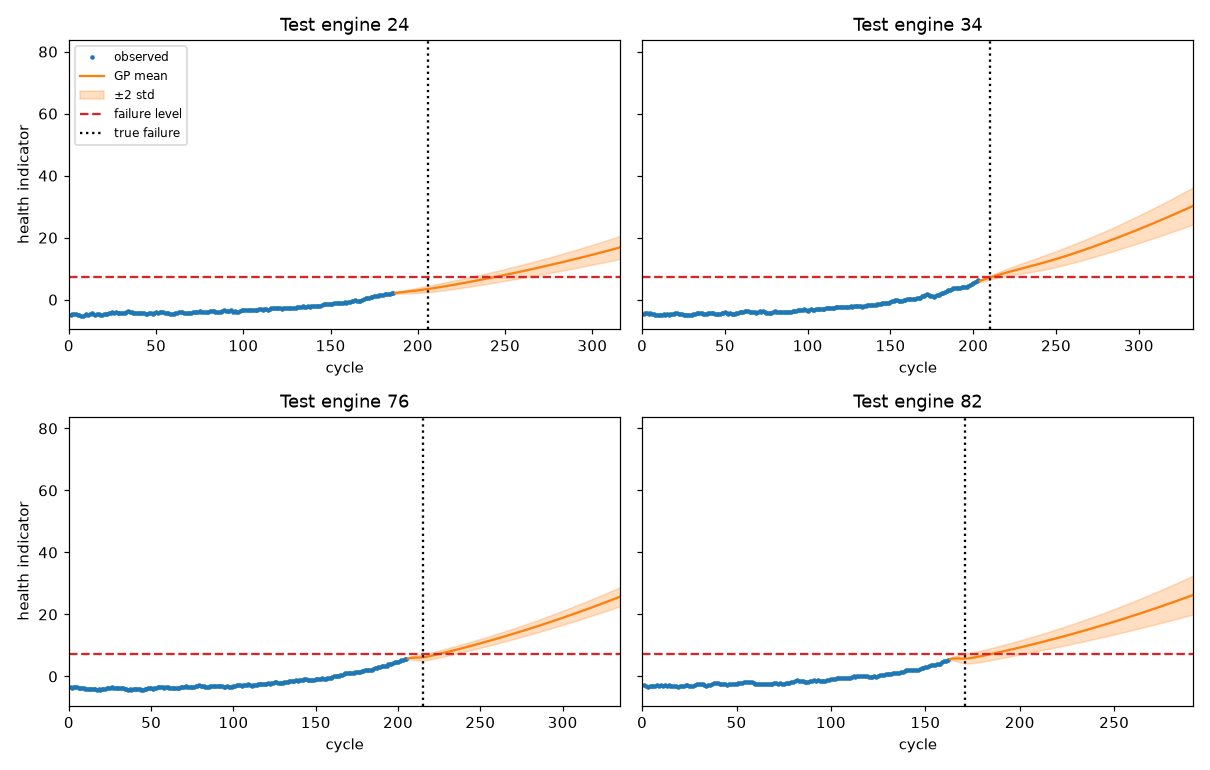
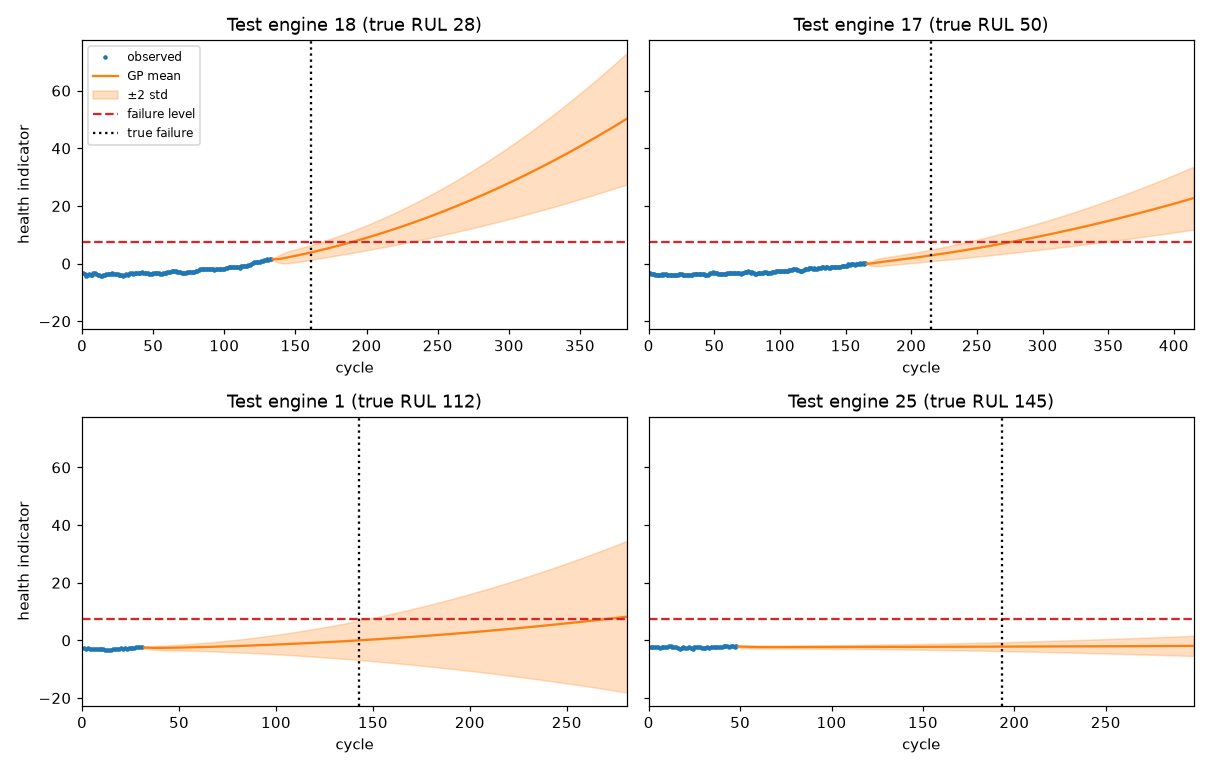
Fix stuck-fault check, pick plot engines by rule, correct M3 claims

diff --git a/scripts/run_uncertainty.py b/scripts/run_uncertainty.py
@@ -10,12 +10,21 @@ from sensor_edge.data import load_subset
 from sensor_edge.experiment import ExperimentConfig
 from sensor_edge.forecast import (
     N_SIGMA,
+    RUL_BUCKETS,
     forecast_test_engines,
     summarise_by_true_rul,
     summarise_forecasts,
 )
 
-PLOT_UNITS = [24, 34, 76, 82]  # fixed before any results were seen
+
+def pick_plot_units(table) -> list[int]:
+    """The lowest unit number in each true-RUL range, so the plot is not hand-picked."""
+    units = []
+    for _, low, high in RUL_BUCKETS:
+        in_bucket = table[(table["true_rul"] >= low) & (table["true_rul"] <= high)]
+        if len(in_bucket):
+            units.append(int(in_bucket["unit"].min()))
+    return units
 
 
 def plot_forecasts(table, indicator, forecasts, frames_test, path: Path) -> None:
@@ -25,7 +34,7 @@ def plot_forecasts(table, indicator, forecasts, frames_test, path: Path) -> None
     import matplotlib.pyplot as plt
 
     figure, axes = plt.subplots(2, 2, figsize=(11, 7), sharey=True)
-    for axis, unit in zip(axes.ravel(), PLOT_UNITS):
+    for axis, unit in zip(axes.ravel(), pick_plot_units(table)):
         cycles, health = indicator.trajectory(frames_test[frames_test["unit"] == unit])
         forecast = forecasts[unit]
         true_failure = cycles[-1] + table.set_index("unit").loc[unit, "true_rul"]
@@ -41,9 +50,10 @@ def plot_forecasts(table, indicator, forecasts, frames_test, path: Path) -> None
         )
         axis.axhline(indicator.failure_level_, color="tab:red", linestyle="--", label="failure level")
         axis.axvline(true_failure, color="black", linestyle=":", label="true failure")
-        axis.set_title(f"Test engine {unit}")
+        true_rul = table.set_index("unit").loc[unit, "true_rul"]
+        axis.set_title(f"Test engine {unit} (true RUL {true_rul})")
         axis.set_xlabel("cycle")
-        axis.set_xlim(0, cycles[-1] + 130)
+        axis.set_xlim(0, forecast.future_cycles[-1])
     axes[0, 0].set_ylabel("health indicator")
     axes[1, 0].set_ylabel("health indicator")
     axes[0, 0].legend(loc="upper left", fontsize=8)

diff --git a/src/sensor_edge/anomaly_experiment.py b/src/sensor_edge/anomaly_experiment.py
@@ -91,6 +91,16 @@ def _score_alarms(
     }
 
 
+def _changed_windows(original: np.ndarray, faulted: np.ndarray) -> np.ndarray:
+    """Mask of windows the fault actually changed.
+
+    A stuck sensor changes nothing if the sensor was already constant in the
+    window, for example a nearly constant sensor or a window at cycle 1 that is
+    all padding. Those are not faults, so they are left out of the check.
+    """
+    return (original != faulted).any(axis=(1, 2))
+
+
 def run_anomaly_detection(
     subset: Subset,
     config: ExperimentConfig,
@@ -100,7 +110,8 @@ def run_anomaly_detection(
     """Fit each detector on healthy training windows and score it on the test engines.
 
     Two checks are reported. Injected faults put a known fault into a copy of every
-    healthy test window, one fault type at a time, so each row is balanced one to one.
+    healthy test window, one fault type at a time, and keep the windows the fault
+    changed, so each row is balanced one to one.
     End of life asks whether windows within 30 cycles of failure raise alarms, and
     that check has more healthy windows than degraded ones.
     """
@@ -114,7 +125,10 @@ def run_anomaly_detection(
         for fault_type in FAULT_TYPES:
             fault_rng = np.random.default_rng(seed)
             faulted = inject_fault(data.test_healthy, fault_type, fault_rng)
-            result = _score_alarms(healthy_scores, detector.score(faulted), threshold)
+            changed = _changed_windows(data.test_healthy, faulted)
+            result = _score_alarms(
+                healthy_scores[changed], detector.score(faulted[changed]), threshold
+            )
             rows.append({"subset": subset.name, "detector": name, "check": fault_type, **result})
 
         end_of_life = _score_alarms(healthy_scores, detector.score(data.test_degraded), threshold)

diff --git a/tests/test_anomaly.py b/tests/test_anomaly.py
@@ -4,6 +4,7 @@ import pytest
 from sensor_edge.anomaly_experiment import (
     END_OF_LIFE_RUL,
     _add_test_rul,
+    _changed_windows,
     _score_alarms,
     prepare_anomaly_data,
     run_anomaly_detection,
@@ -30,6 +31,27 @@ def test_isolation_forest_scores_faulted_windows_higher():
     faulted = inject_fault(healthy[300:], "spike", np.random.default_rng(1))
 
     assert detector.score(faulted).mean() > detector.score(healthy[300:]).mean()
+
+
+def test_a_stuck_fault_on_an_already_constant_sensor_is_not_counted():
+    windows = np.random.default_rng(0).normal(size=(6, 10, 3))
+    windows[:, :, 1] = 2.0  # sensor 1 never moves, so freezing it changes nothing
+    faulted = windows.copy()
+    faulted[0, :, 0] = windows[0, 0, 0]  # a real freeze of sensor 0 in window 0 only
+
+    changed = _changed_windows(windows, faulted)
+
+    assert changed.tolist() == [True, False, False, False, False, False]
+
+
+def test_stuck_check_only_scores_windows_the_fault_changed(subset):
+    detectors = {"Largest reading": LargestReadingDetector}
+
+    stuck = run_anomaly_detection(subset, CONFIG, detectors)[2]
+    data = prepare_anomaly_data(subset, CONFIG)
+
+    assert stuck["check"] == "stuck"
+    assert stuck["n_healthy"] == stuck["n_anomalous"] <= len(data.test_healthy)
 
 
 def test_test_rul_matches_the_official_value_at_the_last_cycle_and_counts_down(subset):

diff --git a/RESULTS.md b/RESULTS.md
@@ -66,7 +66,7 @@ On FD001 neither network beats gradient boosting on hand-crafted features: test 
 
 Produced by `scripts/run_anomaly.py` (`make anomaly`), one seed. Both detectors are fitted on healthy training windows only, meaning windows whose capped RUL still equals the cap. The alarm threshold is the 95th percentile of scores on healthy windows from the validation engines, so about 5 percent of healthy windows should raise an alarm. Everything is scored on the official test engines. C-MAPSS has no fault labels, so there are two checks.
 
-Injected faults: a copy of every healthy test window gets one fault in one random sensor, and the faulted copies are the positives. The healthy originals are the negatives, so each row is balanced. The sizes are in standard deviations of the normalised sensor: a spike of 5 over the last 3 cycles, a drift that ramps up to 4 across the window, and a sensor stuck at its first reading.
+Injected faults: a copy of every healthy test window gets one fault in one random sensor, and the faulted copies are the positives. The healthy originals are the negatives, so each row is balanced. Windows the fault did not change are left out. This only matters for stuck sensors: freezing a sensor that was already constant (for example a nearly constant sensor, or a window at cycle 1 that is all padding) changes nothing, which is why the stuck rows have fewer windows than the spike and drift rows. The sizes are in standard deviations of the normalised sensor: a spike of 5 over the last 3 cycles, a drift that ramps up to 4 across the window, and a sensor stuck at its first reading.
 
 End of life: windows within 30 cycles of failure are the positives and healthy windows are the negatives, so there are many more negatives than positives.
 
@@ -74,32 +74,34 @@ End of life: windows within 30 cycles of failure are the positives and healthy w
 |---|---|---|---|---|---|---|---|---|---|
 | FD001 | Isolation forest | spike | 0.68 | 0.08 | 0.15 | 0.721 | 0.040 | 8041 | 8041 |
 | FD001 | Isolation forest | drift | 0.72 | 0.10 | 0.18 | 0.758 | 0.040 | 8041 | 8041 |
-| FD001 | Isolation forest | stuck | 0.54 | 0.05 | 0.09 | 0.597 | 0.040 | 8041 | 8041 |
+| FD001 | Isolation forest | stuck | 0.56 | 0.04 | 0.07 | 0.603 | 0.028 | 7646 | 7646 |
 | FD001 | Isolation forest | end of life | 0.50 | 0.99 | 0.67 | 0.997 | 0.040 | 8041 | 332 |
 | FD001 | Autoencoder | spike | 0.84 | 0.15 | 0.26 | 0.829 | 0.029 | 8041 | 8041 |
 | FD001 | Autoencoder | drift | 0.93 | 0.37 | 0.53 | 0.922 | 0.029 | 8041 | 8041 |
-| FD001 | Autoencoder | stuck | 0.49 | 0.03 | 0.05 | 0.467 | 0.029 | 8041 | 8041 |
+| FD001 | Autoencoder | stuck | 0.49 | 0.03 | 0.06 | 0.465 | 0.031 | 7646 | 7646 |
 | FD001 | Autoencoder | end of life | 0.25 | 0.23 | 0.24 | 0.810 | 0.029 | 8041 | 332 |
 | FD002 | Isolation forest | spike | 0.70 | 0.11 | 0.20 | 0.718 | 0.050 | 20702 | 20702 |
 | FD002 | Isolation forest | drift | 0.72 | 0.13 | 0.22 | 0.748 | 0.050 | 20702 | 20702 |
-| FD002 | Isolation forest | stuck | 0.54 | 0.06 | 0.11 | 0.579 | 0.050 | 20702 | 20702 |
+| FD002 | Isolation forest | stuck | 0.55 | 0.05 | 0.09 | 0.581 | 0.038 | 20430 | 20430 |
 | FD002 | Isolation forest | end of life | 0.49 | 0.93 | 0.64 | 0.985 | 0.050 | 20702 | 1087 |
 | FD002 | Autoencoder | spike | 0.85 | 0.12 | 0.21 | 0.810 | 0.022 | 20702 | 20702 |
 | FD002 | Autoencoder | drift | 0.94 | 0.36 | 0.52 | 0.886 | 0.022 | 20702 | 20702 |
-| FD002 | Autoencoder | stuck | 0.42 | 0.02 | 0.03 | 0.453 | 0.022 | 20702 | 20702 |
+| FD002 | Autoencoder | stuck | 0.42 | 0.02 | 0.03 | 0.452 | 0.022 | 20430 | 20430 |
 | FD002 | Autoencoder | end of life | 0.49 | 0.40 | 0.44 | 0.915 | 0.022 | 20702 | 1087 |
 
 Findings:
 
 - Both detectors keep false alarms near the 5 percent target (2 to 5 percent on healthy test windows), but they miss most injected faults. Recall is 2 to 15 percent for spikes and stuck sensors, and the best recall on any injected fault is 37 percent (the autoencoder on drift).
 - The autoencoder is the better detector of injected spikes and drifts (AUC 0.81 to 0.92 against 0.72 to 0.76). Its alarms are precise when they fire (precision 0.84 to 0.94) but rare.
-- A stuck sensor is not detected by either method. The autoencoder's AUC is below 0.5, so frozen windows score as more normal than healthy ones, which is likely because a constant sensor is easy to reconstruct.
-- For windows close to failure the isolation forest is far better than the autoencoder: AUC 0.997 against 0.810 on FD001, with recall of 0.99 at a precision of 0.50. The isolation forest sees the mean, slope and last value of each sensor, and these shift as an engine wears. The autoencoder has to reconstruct the whole window.
+- A stuck sensor is barely detected by either method. The isolation forest has recall of 0.04 to 0.05 and an AUC of 0.58 to 0.60, only a little above chance. The autoencoder's AUC is below 0.5 (0.45 to 0.47), so frozen windows score as slightly more normal than healthy ones, which is likely because a constant sensor is easy to reconstruct.
+- For windows close to failure the isolation forest is far better than the autoencoder: AUC 0.997 against 0.810 on FD001, with recall of 0.99 at a precision of 0.50. The isolation forest sees the mean, standard deviation, slope and last value of each sensor, and these shift as an engine wears. The autoencoder has to reconstruct the whole window.
 - Injected faults are synthetic and the sizes were chosen by hand, so the recall figures describe these faults and not real sensor failures. The injected check and the end of life check measure different things, and neither detector is best on both.
 
 ## M3: uncertainty with a Gaussian process
 
-Produced by `scripts/run_uncertainty.py` (`make uncertainty`) on FD001. A health indicator is built from the first principal component of the normalised sensors, oriented to rise with wear, smoothed with a 5 cycle trailing mean. The component and the failure level (the mean indicator value at the last cycle of the training engines) come from training engines only. For each test engine a Gaussian process (squared dot product kernel for the trend, an RBF kernel and white noise) is fitted to its observed indicator values and extrapolated for up to 250 cycles. The predicted RUL is the first cycle at which the mean reaches the failure level, and the interval is where the mean plus or minus 2 standard deviations reaches it. If a curve never reaches the level, that RUL or bound is reported as 250. The "No crossing in horizon" column is the share of engines whose upper bound is 250, meaning the lower edge of the band never reaches the failure level.
+Produced by `scripts/run_uncertainty.py` (`make uncertainty`) on FD001. A health indicator is built from the first principal component of the normalised sensors, oriented to rise with wear, smoothed with a 5 cycle trailing mean. The component and the failure level (the mean indicator value at the last cycle of the training engines) come from training engines only. For each test engine a Gaussian process (squared dot product kernel for the trend, an RBF kernel and white noise) is fitted to its observed indicator values and extrapolated for up to 250 cycles. The predicted RUL is the first cycle at which the mean reaches the failure level, and the interval runs from the first cycle at which the upper edge of the band (mean plus 2 standard deviations) reaches it to the first cycle at which the lower edge (mean minus 2 standard deviations) reaches it. The band is a 2 standard deviation band at each cycle. Taking where its edges cross the failure level does not give a calibrated 95 percent interval on the remaining life, so coverage is reported as measured and not compared with a nominal level.
+
+If a curve never reaches the level within the 250 cycle horizon, that RUL or bound is set to 250. Coverage and width are computed with that value. An engine whose upper bound is 250 counts as covered whenever its true RUL is at or above the lower bound, and the width includes the 250. So the width understates the real uncertainty wherever this happens. The "No crossing in horizon" column is the share of engines with an upper bound of 250, meaning the lower edge of the band never reaches the failure level.
 
 | Engines | RMSE | NASA score | Interval coverage | Mean interval width | No crossing in horizon |
 |---|---|---|---|---|---|
@@ -115,10 +117,10 @@ This is much worse than the M1 and M2 models (FD001 test RMSE 14.5 to 16.6). The
 | over 125 | 11 | 115.41 | 0.00 | 28.2 | 1.00 |
 
 - The forecast only works once degradation is visible. For engines within 30 cycles of failure the RMSE is 25.9, and the upper bound of the interval stays inside the horizon for every engine. For engines that are earlier in life the RMSE is 100 to 131 and the upper bound often runs off the horizon (94 to 100 percent of engines with a true RUL above 60). The indicator is still close to flat for these engines, so a trend fitted to it does not point at the failure level.
-- The intervals are too narrow even where the forecast works. The nominal level is about 95 percent, and coverage is 0.32 for engines within 30 cycles of failure. The band reflects the uncertainty in the fitted trend and the noise, but not the error in the choice of a quadratic trend or in the failure level, which is an average over training engines.
+- The intervals miss often even where the forecast works: the true RUL is inside the interval for 0.32 of the engines within 30 cycles of failure. The "over 125" row has a width of only 28.2, but all of those engines are censored, so it shows that the forecast gives up and not that it is precise. The band reflects the uncertainty in the fitted trend and the noise, but not the error in the choice of a quadratic trend or in the failure level, which is an average over training engines.
 - The NASA score of about 1e9 is most likely driven by engines whose forecast is far above the true RUL, because late predictions are penalised exponentially. It is reported for completeness and is not a useful comparison with the M1 and M2 scores.
 
-The plot in the README shows four fixed test engines (24, 34, 76 and 82), picked before any results were seen. They turned out to be close to failure, so the plot shows the forecast at its best.
+The plot in the README shows one test engine from each true RUL range: the lowest unit number in each range (engines 18, 17, 1 and 25, with true RUL 28, 50, 112 and 145). The rule is in `pick_plot_units` in `scripts/run_uncertainty.py`, and it does not look at forecast quality. An earlier version of the plot used four hand-picked engines that were all close to failure. It was replaced because that choice made the forecast look better than it is.
 
 ## Notes
 

diff --git a/README.md b/README.md
@@ -31,13 +31,13 @@ An LSTM (two layers, 64 hidden units) and a 1D-CNN (three convolutions over the 
 
 ## M3 anomaly detection and uncertainty
 
-Two detectors learn what healthy windows look like and flag windows that differ: an isolation forest on the window features, and an autoencoder that scores a window by how badly it rebuilds it. They are checked on faults injected into healthy test windows (spike, drift, stuck sensor) and on windows within 30 cycles of failure. At a threshold that allows about 5 percent false alarms they miss most injected faults. They do well on windows close to failure, where the isolation forest reaches an AUC of 0.997 on FD001. The full precision and recall table is in [RESULTS.md](RESULTS.md).
+Two detectors learn what healthy windows look like and flag windows that differ: an isolation forest on the window features, and an autoencoder that scores a window by how badly it rebuilds it. They are checked on faults injected into healthy test windows (spike, drift, stuck sensor) and on windows within 30 cycles of failure. At a threshold that allows about 5 percent false alarms they miss most injected faults. On windows close to failure the isolation forest does well (AUC 0.997 on FD001) and the autoencoder does not (AUC 0.810, recall 0.23). The full precision and recall table is in [RESULTS.md](RESULTS.md).
 
 A health indicator (the first principal component of the normalised sensors) is extrapolated with a Gaussian process to estimate when it reaches the failure level, and the band gives an interval on the remaining life.
 
-![Gaussian process forecast of the health indicator for four test engines near failure](docs/uncertainty.png)
+![Gaussian process forecast of the health indicator for four FD001 test engines, one per true RUL range](docs/uncertainty.png)
 
-The orange line is the Gaussian process mean and the band is plus or minus 2 standard deviations. The dashed line is the failure level and the dotted line is the true failure cycle. These four engines are close to failure, so the plot shows the forecast at its best. Over all 100 FD001 test engines the forecast is poor, because engines early in life show no degradation yet, and the interval covers the true RUL for only 10 percent of engines (32 percent for engines within 30 cycles of failure). RESULTS.md has the breakdown.
+The orange line is the Gaussian process mean and the band is plus or minus 2 standard deviations. The dashed line is the failure level and the dotted line is the true failure cycle. The plot shows the lowest numbered test engine in each true RUL range (28, 50, 112 and 145 cycles left), not hand-picked examples. The engine closest to failure has a band that contains the true failure. The engine with 145 cycles left shows no degradation yet, so the forecast has nothing to extrapolate. Over all 100 FD001 test engines the forecast is poor, and the interval contains the true RUL for only 10 percent of them (32 percent for engines within 30 cycles of failure). RESULTS.md has the breakdown.
 
 ## Results
 
